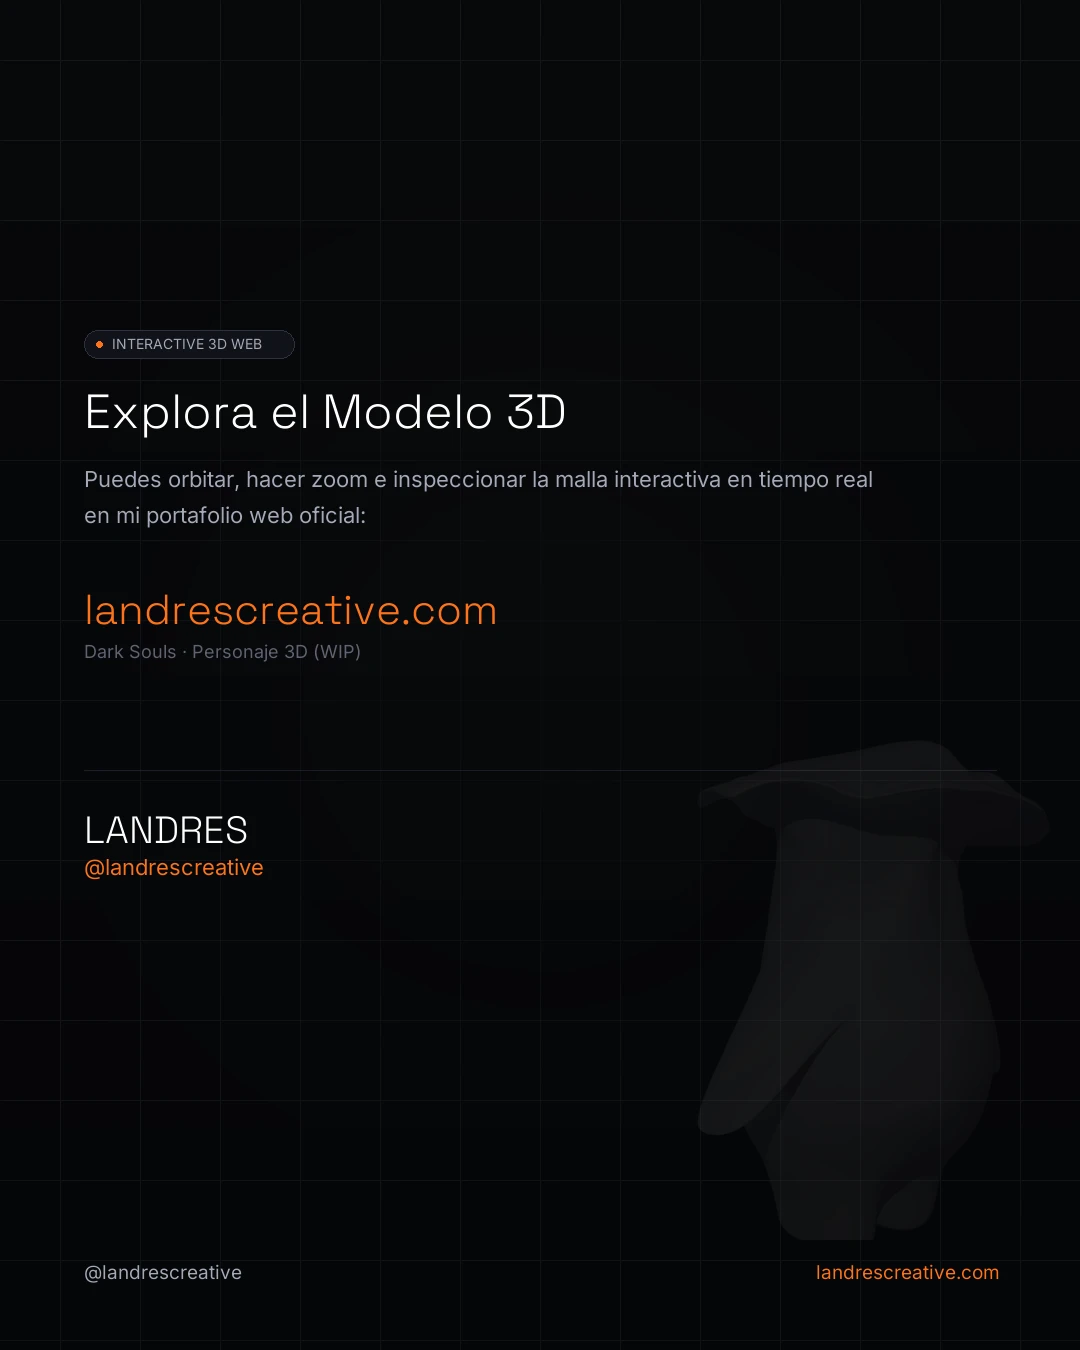
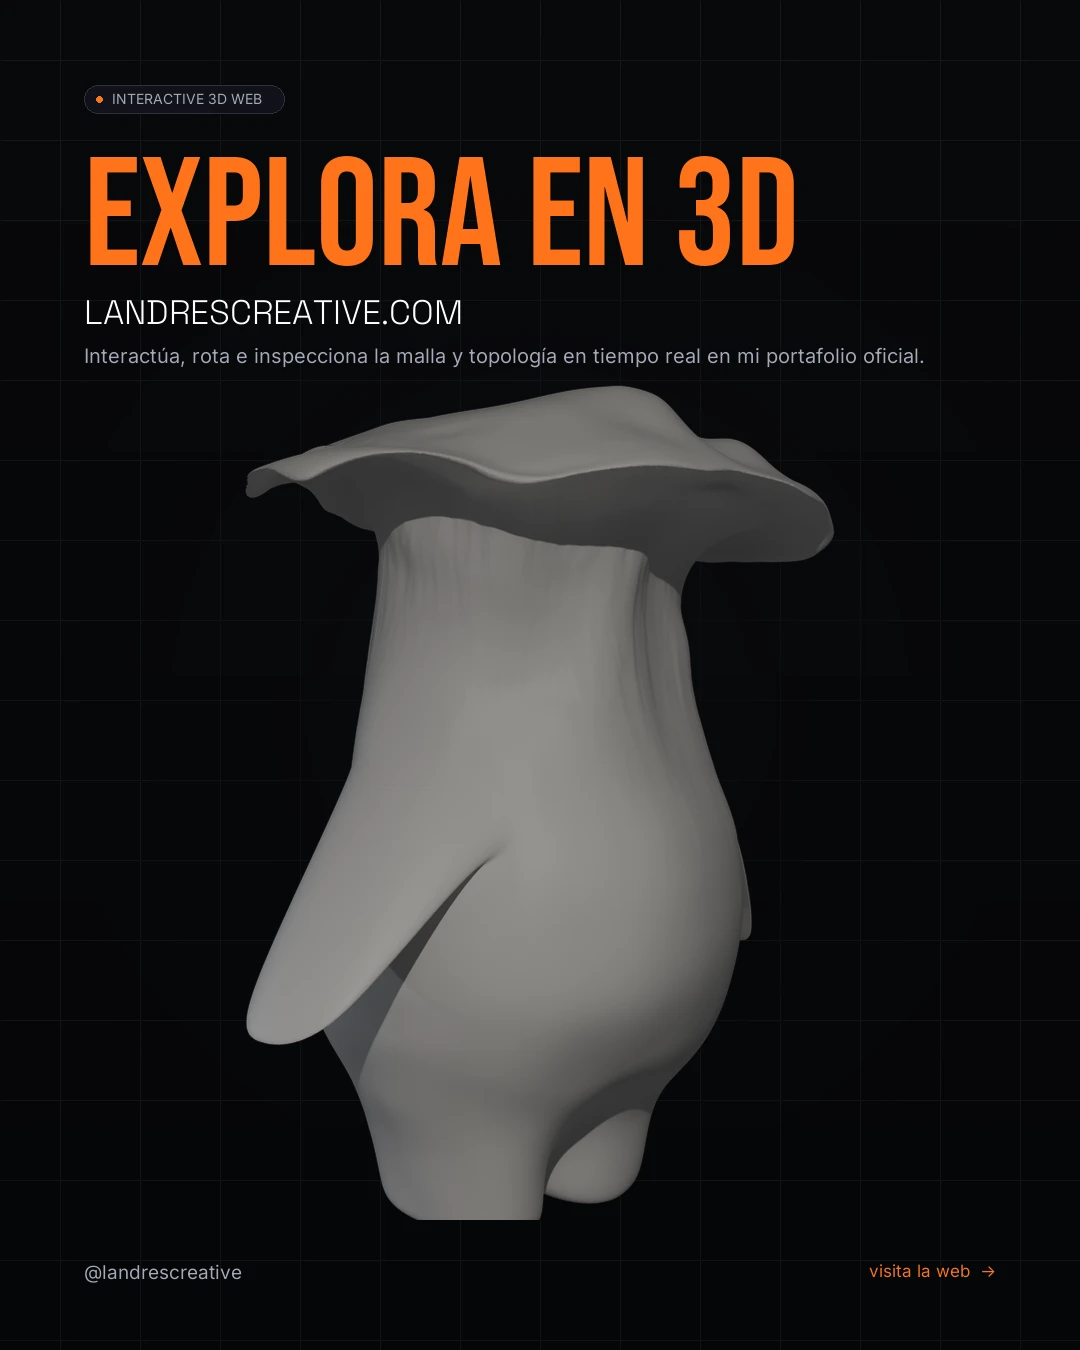
style(social): mirror slide 5 layout to cover slide for perfect architectural bookend symmetry

diff --git a/scripts/carousel_generator.py b/scripts/carousel_generator.py
@@ -9,25 +9,24 @@ Standard Style:
     * Texture: Cyber Tech Studio Grid (fine 80px lines with smooth radial vignette)
     * Accent: Orange Warm (#ff7319) - Official brand highlight
     * Typography: Bebas Neue (Monumental Titles), Space Grotesk (Subtitles / Technical), Inter (Body & Micro UI)
-- Flow Structure:
+- Unified Bookend Architecture:
     * Slide 1 (Cover):
-        - Micro tag pill ("● 3D CREATURE STUDY" / "● 3D PROJECT")
+        - Micro tag pill ("● 3D CREATURE STUDY")
         - Monumental Headline (Bebas Neue in Orange Warm)
         - Subtitle (Space Grotesk in Crisp White)
         - Concise description (Inter in Soft Slate)
-        - 3D Model grounded at bottom, zero overlap
+        - 3D Model grounded at bottom
         - Footer: @landrescreative + "desliza  →"
-    * Slides 2, 3, 4 (Visual Showcases):
-        - Pure, high-impact 3D render at maximum scale
-        - Studio Cyber Grid backdrop
+    * Slides 2, 3, 4 (Showcases):
+        - Pure, high-impact 3D render at maximum scale on Cyber Tech Grid
         - Clean footer: @landrescreative + "desliza  →"
-    * Slide 5 (Outro & Web CTA):
-        - Micro pill: "● INTERACTIVE 3D WEB"
-        - Headline: "Explora el Modelo 3D"
-        - Body note inviting real-time orbit inspection
-        - Big brand URL: landrescreative.com
-        - Project subtitle
-        - Creator signature divider: LANDRES · @landrescreative
+    * Slide 5 (Outro / CTA - Mirrored to Slide 1):
+        - Micro tag pill ("● INTERACTIVE 3D WEB")
+        - Monumental Headline ("EXPLORA EN 3D" or "LANDRES 3D" in Bebas Neue Orange Warm)
+        - Subtitle ("LANDRESCREATIVE.COM" in Space Grotesk Crisp White)
+        - Concise description (Inter in Soft Slate: "Interactúa, rota e inspecciona el modelo...")
+        - 3D Model grounded at bottom in heroic pose
+        - Footer: @landrescreative + "visita la web  →"
 """
 
 import os
@@ -85,7 +84,7 @@ class OfficialCarouselGenerator:
             "url_sub": ImageFont.truetype(FONT_INTER, 18),
         }
 
-    def create_cyber_grid_canvas(self, handle="@landrescreative", is_last_slide=False):
+    def create_cyber_grid_canvas(self, handle="@landrescreative", is_last_slide=False, right_cue="desliza  →"):
         """Creates the official Cyber Tech Grid background with smooth radial falloff."""
         img = Image.new("RGBA", (CANVAS_WIDTH, CANVAS_HEIGHT), self.t["colors"]["bg_dark"])
         draw = ImageDraw.Draw(img)
@@ -111,7 +110,7 @@ class OfficialCarouselGenerator:
         for y in range(60, CANVAS_HEIGHT, step):
             gdraw.line([(0, y), (CANVAS_WIDTH, y)], fill=line_color, width=1)
 
-        # Radial mask: grid is clear near center and gently dissolves outward
+        # Radial mask
         mask = Image.new("L", (CANVAS_WIDTH, CANVAS_HEIGHT), 255)
         mdraw = ImageDraw.Draw(mask)
         center_x, center_y = CANVAS_WIDTH // 2, 700
@@ -129,10 +128,9 @@ class OfficialCarouselGenerator:
 
         draw.text((mx, fy), handle, fill=self.t["colors"]["text_secondary"], font=self.fonts["handle"])
 
-        if not is_last_slide:
-            draw.text((CANVAS_WIDTH - mx - 90, fy), "desliza  →", fill=accent, font=self.fonts["cue"])
-        else:
-            draw.text((CANVAS_WIDTH - mx - 180, fy), "landrescreative.com", fill=accent, font=self.fonts["handle"])
+        cue_bbox = self.fonts["cue"].getbbox(right_cue)
+        cue_w = cue_bbox[2] - cue_bbox[0]
+        draw.text((CANVAS_WIDTH - mx - cue_w, fy), right_cue, fill=accent, font=self.fonts["cue"])
 
         return img
 
@@ -180,7 +178,7 @@ class OfficialCarouselGenerator:
         return lines
 
     def render_cover_slide(self, slide_cfg, handle="@landrescreative"):
-        img = self.create_cyber_grid_canvas(handle=handle, is_last_slide=False)
+        img = self.create_cyber_grid_canvas(handle=handle, is_last_slide=False, right_cue="desliza  →")
         draw = ImageDraw.Draw(img)
 
         mx = self.t["layout"]["margin_x"]
@@ -217,64 +215,46 @@ class OfficialCarouselGenerator:
         return img
 
     def render_showcase_slide(self, slide_cfg, handle="@landrescreative"):
-        img = self.create_cyber_grid_canvas(handle=handle, is_last_slide=False)
+        img = self.create_cyber_grid_canvas(handle=handle, is_last_slide=False, right_cue="desliza  →")
         if "image" in slide_cfg:
-            # Full vertical canvas space for pure artwork
             self.place_sculpt(img, slide_cfg["image"], target_box=(80, 80, 1000, 1220), align_center=True)
         return img
 
     def render_outro_slide(self, slide_cfg, handle="@landrescreative", website="landrescreative.com"):
-        img = self.create_cyber_grid_canvas(handle=handle, is_last_slide=True)
+        """Mirrors the exact monumental typography & layout of Slide 1 for perfect bookend symmetry."""
+        img = self.create_cyber_grid_canvas(handle=handle, is_last_slide=True, right_cue="visita la web  →")
         draw = ImageDraw.Draw(img)
 
         mx = self.t["layout"]["margin_x"]
+        top_y = self.t["layout"]["content_top"]
         accent = self.t["colors"]["accent_orange"]
-        sy = 330
 
-        # Pill tag
-        draw.rounded_rectangle([(mx, sy), (mx + 210, sy + 28)], radius=14, fill=self.t["colors"]["pill_bg"], outline=self.t["colors"]["pill_border"], width=1)
-        draw.ellipse([(mx + 12, sy + 11), (mx + 18, sy + 17)], fill=accent)
-        draw.text((mx + 28, sy + 5), "INTERACTIVE 3D WEB", fill=self.t["colors"]["text_secondary"], font=self.fonts["pill"])
+        # 1. Pill tag
+        tag_text = slide_cfg.get("tag", "INTERACTIVE 3D WEB")
+        draw.rounded_rectangle([(mx, top_y), (mx + 200, top_y + 28)], radius=14, fill=self.t["colors"]["pill_bg"], outline=self.t["colors"]["pill_border"], width=1)
+        draw.ellipse([(mx + 12, top_y + 11), (mx + 18, top_y + 17)], fill=accent)
+        draw.text((mx + 28, top_y + 5), tag_text, fill=self.t["colors"]["text_secondary"], font=self.fonts["pill"])
 
-        sy += 50
-        title = slide_cfg.get("title", "Explora el Modelo 3D")
-        draw.text((mx, sy), title, fill=self.t["colors"]["text_primary"], font=self.fonts["title_hero"])
+        # 2. Monumental Headline (Bebas Neue)
+        title = slide_cfg.get("title", "EXPLORA EN 3D")
+        draw.text((mx, top_y + 40), title, fill=accent, font=self.fonts["title_mega"])
 
-        desc = slide_cfg.get("description", "Puedes orbitar, hacer zoom e inspeccionar la malla interactiva en tiempo real en mi portafolio web oficial:")
-        desc_lines = self.wrap_text(desc, self.fonts["desc_medium"], 820)
-        cy = sy + 85
-        for l in desc_lines:
-            draw.text((mx, cy), l, fill=self.t["colors"]["text_secondary"], font=self.fonts["desc_medium"])
-            cy += 36
+        # 3. Subtitle (Space Grotesk) - Highlighting website
+        subtitle = slide_cfg.get("subtitle", "LANDRESCREATIVE.COM")
+        draw.text((mx, top_y + 205), subtitle, fill=self.t["colors"]["text_primary"], font=self.fonts["title_sub"])
 
-        cy += 45
-        # Big official website link
-        draw.text((mx, cy), website, fill=accent, font=self.fonts["url_big"])
-        cy += 58
-        proj_label = slide_cfg.get("project_label", "Dark Souls · Personaje 3D (WIP)")
-        draw.text((mx, cy), proj_label, fill=self.t["colors"]["text_faint"], font=self.fonts["url_sub"])
+        # 4. Description (Inter)
+        desc = slide_cfg.get("description", "Interactúa, rota e inspecciona la malla y topología en tiempo real en mi portafolio oficial.")
+        if desc:
+            lines = self.wrap_text(desc, self.fonts["desc"], CANVAS_WIDTH - (mx * 2))
+            cy = top_y + 258
+            for l in lines:
+                draw.text((mx, cy), l, fill=self.t["colors"]["text_secondary"], font=self.fonts["desc"])
+                cy += 30
 
-        # Creator signature divider
-        cy += 130
-        draw.line([(mx, cy), (CANVAS_WIDTH - mx, cy)], fill=self.t["colors"]["hairline"], width=1)
-        cy += 35
-        draw.text((mx, cy), "LANDRES", fill=self.t["colors"]["text_primary"], font=self.fonts["title_card"])
-        cy += 48
-        draw.text((mx, cy), handle, fill=accent, font=self.fonts["desc_medium"])
-
-        # Faded artistic 3D silhouette in background right
-        if "image" in slide_cfg and os.path.exists(slide_cfg["image"]):
-            src = Image.open(slide_cfg["image"]).convert("RGBA")
-            bbox = src.getbbox()
-            if bbox:
-                src = src.crop(bbox)
-            sw, sh = src.size
-            scale = 500 / sh
-            nw, nh = int(sw * scale), int(sh * scale)
-            src_res = src.resize((nw, nh), Image.Resampling.LANCZOS)
-            alpha = src_res.split()[3].point(lambda p: int(p * 0.16))
-            src_res.putalpha(alpha)
-            img.paste(src_res, (CANVAS_WIDTH - nw - 30, CANVAS_HEIGHT - nh - 110), src_res)
+        # 5. Sculpt placed grounded (hero pose)
+        if "image" in slide_cfg:
+            self.place_sculpt(img, slide_cfg["image"], target_box=(80, top_y + 300, 1000, 1220), align_center=False)
 
         return img
 
@@ -287,7 +267,7 @@ def generate_full_carousel(config):
     slides = config["slides"]
     total = len(slides)
 
-    print(f"Generating Official Standard Carousel ({total} slides)...")
+    print(f"Generating Harmonized Standard Carousel ({total} slides)...")
 
     for i, s in enumerate(slides, start=1):
         stype = s.get("type", "showcase")
@@ -317,7 +297,7 @@ def generate_full_carousel(config):
 
         print(f"  [OK] Exported {fname}")
 
-    print("\nOfficial Carousel Generation Complete!")
+    print("\nHarmonized Carousel Generation Complete!")
 
 
 if __name__ == "__main__":
@@ -355,9 +335,10 @@ if __name__ == "__main__":
             {
                 "type": "outro",
                 "filename": "slide_05_web_cta.png",
-                "title": "Explora el Modelo 3D",
-                "description": "Puedes orbitar, hacer zoom e inspeccionar la malla interactiva en tiempo real en mi portafolio web oficial:",
-                "project_label": "Dark Souls · Personaje 3D (WIP)",
+                "tag": "INTERACTIVE 3D WEB",
+                "title": "EXPLORA EN 3D",
+                "subtitle": "LANDRESCREATIVE.COM",
+                "description": "Interactúa, rota e inspecciona la malla y topología en tiempo real en mi portafolio oficial.",
                 "image": os.path.join(CACHE_DIR, "shot_hero_34.png"),
             }
         ]
